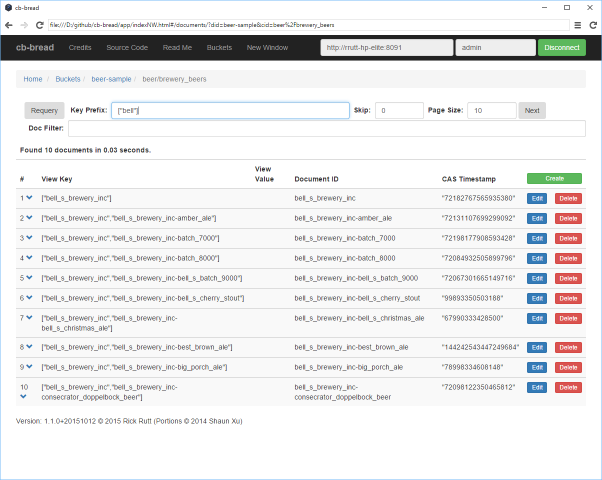
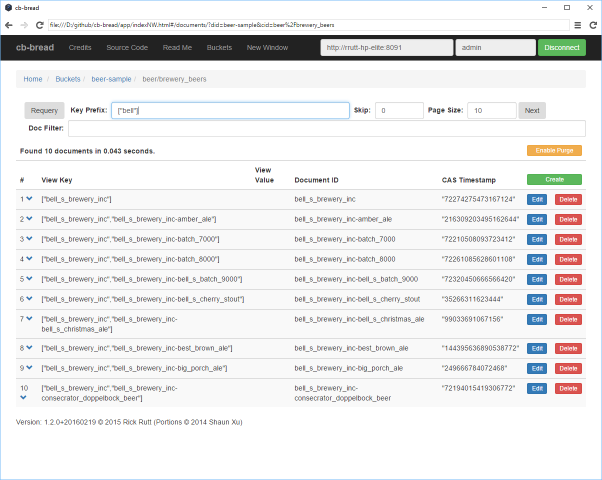
Document "Purge" feature in README.

Changed region(s): [[0.0299, 0.2812, 0.9867, 0.8438], [0.0299, 0.875, 0.4186, 0.9062]]

diff --git a/README.md b/README.md
@@ -18,12 +18,16 @@ This application can connect to any Couchbase server visible to your workstation
 
 The application supports filtering documents using a _Key Prefix_ for any Couchbase view defined on a bucket. (For Map/Reduce views, the _reduce_ operation is omitted from the query.)
 
-The application also supports additional document filtering using a Javascript expression.
-
-When used to query against Couchbase version 4, you can also perform N1QL (pronounced "nickel") queries against any bucket that has at least a primary key Global Secondary Index (GSI) defined.
-Note, however, that results from a N1QL query are treated as _read-only_ and do _not_ support editing.
+The application also supports additional document filtering using a JavaScript expression.
 
 I wrote a blog article about my experience creating this application: [If You Build It, They Will Fork It](https://rickrutt.wordpress.com/2015/02/15/if-you-build-it-they-will-fork-it/).
+
+**_Added in Release 1.1.0_**: When used to query against Couchbase version 4, you can also perform N1QL (pronounced "nickel") queries against any bucket that has at least a primary key Global Secondary Index (GSI) defined.
+Note that results from a N1QL query are treated as _read-only_ and do _not_ support editing or purging from within **cb-bread**.
+However, as of Couchbase 4.1, the N1QL language supports Select, Insert, Update, and Delete statements:
+[What's new in Couchbase Server 4.1](http://developer.couchbase.com/documentation/server/4.1/introduction/whats-new.html)
+
+**_Added in Release 1.2.0_**: The application allows purging the documents displayed on the current results page from a view query, as filtered by the optional **Doc Filter** JavaScript expression.
 
 ### Screen Shots
 
@@ -50,6 +54,14 @@ JSON Document Editor:
 JSON Document Editor (Text Mode):
 
 ![JSON Document Editor (Text Mode)](./images/cb-bread-json-editor-text-mode.png "JSON Document Editor (Text Mode)")
+
+Filtered Document List with Purge Enabled:
+
+![Purge Enabled](./images/cb-bread-purge-enabled.png "Purge Enabled")
+
+Purge Confirmation:
+
+![Purge Confirmation](./images/cb-bread-purge-confirmation.png "Purge Confirmation")
 
 ### Pre-requisites:
 
@@ -210,9 +222,9 @@ or:
 
 ### Viewing Log Messages in Standalone Mode
 
-Log messages will _not_ appear in the terminal window.
+Log messages will _not_ appear in the terminal window (except perhaps in Mac OSX).
 
-Instead, they will appear in the webkit Developer Tools Javascript console.
+Instead, they will appear in the webkit Developer Tools JavaScript console.
 This can be opened by clicking on the **≡** icon in the upper-right corner of the **cb-bread** window.
 (On Mac OSX, the **≡** icon is replaced by a _gear_ icon.)
 
@@ -396,7 +408,7 @@ Querying this view with **Key Prefix** set to **=3.22** returns just the one bee
 
 For these examples navigate to the **Home  / Buckets / beer-sample / beer/brewery_beers** document list page.
 
-The **Doc Filter** accepts Javascript expressions and filters the document listing results based on the _truthyness_ of the expression value.
+The **Doc Filter** accepts JavaScript expressions and filters the document listing results based on the _truthyness_ of the expression value.
 If the expression returns null, undefined, 0, or false for a given document, that document is _excluded_ from the query results.
 
 A document is also excluded if the expression throws a _null-reference exception_.
@@ -416,7 +428,7 @@ The **Doc Filter** expression has access to these object variables:
 The expression also has implicit access to several functions from the NodeJS **util** module, such as **inspect** and **format**.
 
 **_Special Note -- Negative numbers:_**
-The Javascript expression parser does _not_ properly handle unary minus for constants, such as **-123**.
+The JavaScript expression parser does _not_ properly handle unary minus for constants, such as **-123**.
 Instead, use _subtract from zero_ format for these values: **(0-123)**.
 
 ## Doc Filter expression applied to the View Key:
@@ -439,7 +451,7 @@ To find all the breweries in Michigan, use this expression:
 
 ### Filtering based on values inside array properties:
 
-The Array.filter or Array.map functions are _not allowed_ since the Javascript expression parser does not allow braces, so inline callback functions cannot be specified.
+The Array.filter or Array.map functions are _not allowed_ since the JavaScript expression parser does not allow braces, so inline callback functions cannot be specified.
 
 Instead, use the implicit **inspect** function from the NodeJS 'util' module to convert the entire array to a string and use string functions to check for specific values in the array elements.
 
@@ -511,6 +523,26 @@ The server continues to scan successive pages until the requested **Page Size** 
 If you click the **Next** button at that point, the server resumes scanning after the last already-scanned document, using its index # as the new **Skip Count**.
 
 Once the end of the view is reached, the message "**No more documents match the Key Prefix and Doc Filter criteria.**" appears above the document list.
+
+## Purging documents:
+
+If at least one document appears in the current page of query results, an **Enable Purge** button appears at the right of the results header:
+
+![Enable Purge button](./images/cb-bread-enable-purge-button.png "Enable Purge button")
+
+Click that button to display a **Purge** button:
+
+![Purge button](./images/cb-bread-purge-button.png "Purge button")
+
+Click the **Purge** button to open a confirmation dialog to complete the purge of the subset of documents that appear in the current query results page:
+
+![Purge confirmation dialog](./images/cb-bread-purge-confirmation-zoomed.png "Purge confirmation dialog")
+
+After clicking the **Purge** confirmation button, control returns to the query results page and the **Requery** action automatically occurs.
+You can proceed to purge addition results from the query by clicking the **Purge** button again.
+
+Click the **Disable** button that appears in front of the **Purge** button to turn off the purge feature.
+The **Enable Purge** button re-appears.
 
 ## Performing N1QL Queries using cb-bread
 
